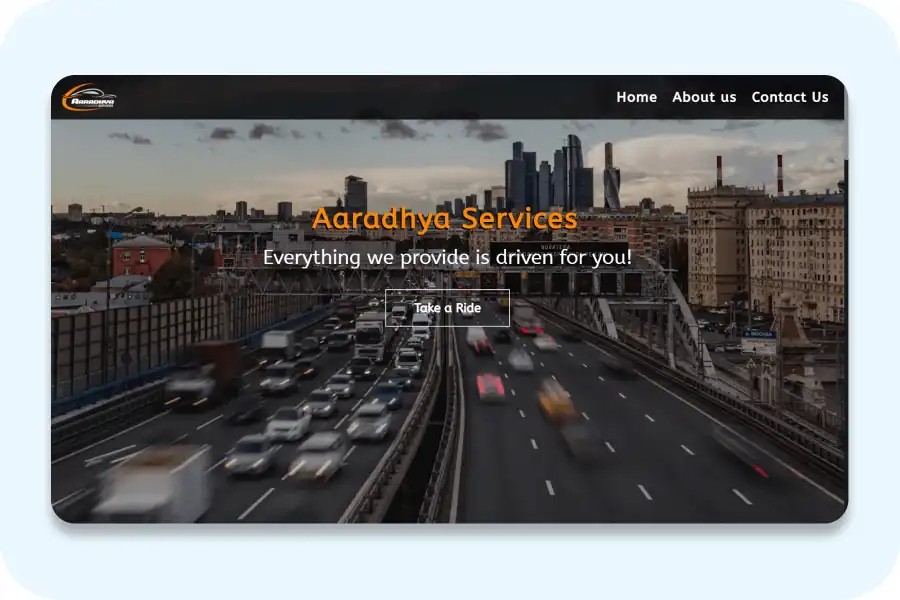
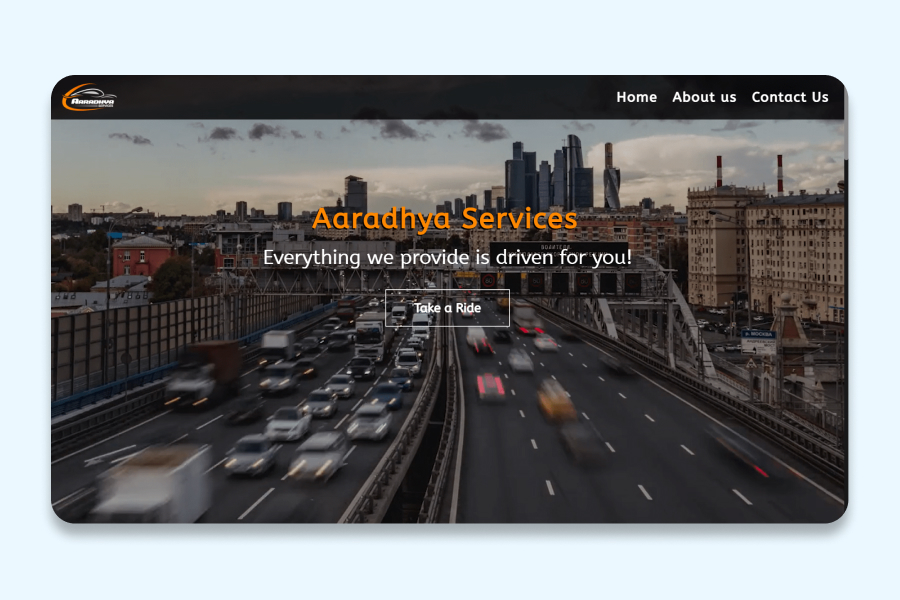
fixed images border radius

Changed region(s): [[0.3422, 0.33, 0.6533, 0.39], [0.0622, 0.15, 0.0933, 0.21]]

diff --git a/assets/stylesheets/index.css b/assets/stylesheets/index.css
@@ -190,6 +190,8 @@ h1 {
     box-shadow: 0px 0px 10px 0px rgba(0, 0, 0, 0.2);
     /* Border */
     border-radius: 42px;
+    overflow: hidden;
+    margin-bottom: 15px;
 }
 
 .project_description {
@@ -260,7 +262,8 @@ textarea:focus {
 
 #portfolio h3,
 #contact h3,
-#recommendations h3 {
+#recommendations h3,
+#admits h3 {
     font-size: 33px;
     font-weight: 800;
     text-decoration: underline;
@@ -270,7 +273,7 @@ textarea:focus {
     border-bottom: 0.5px solid black;
 }
 
-.glider-dot.active{
+.glider-dot.active {
     background-color: black;
 }
 
@@ -281,4 +284,14 @@ textarea:focus {
 
 .stop-scrolling {
     overflow: hidden;
+}
+
+#admits img {
+    opacity: 0.5;
+    transition: 0.5s;
+}
+
+#admits img:hover {
+    opacity: 1;
+    transition: 0.5s;
 }
